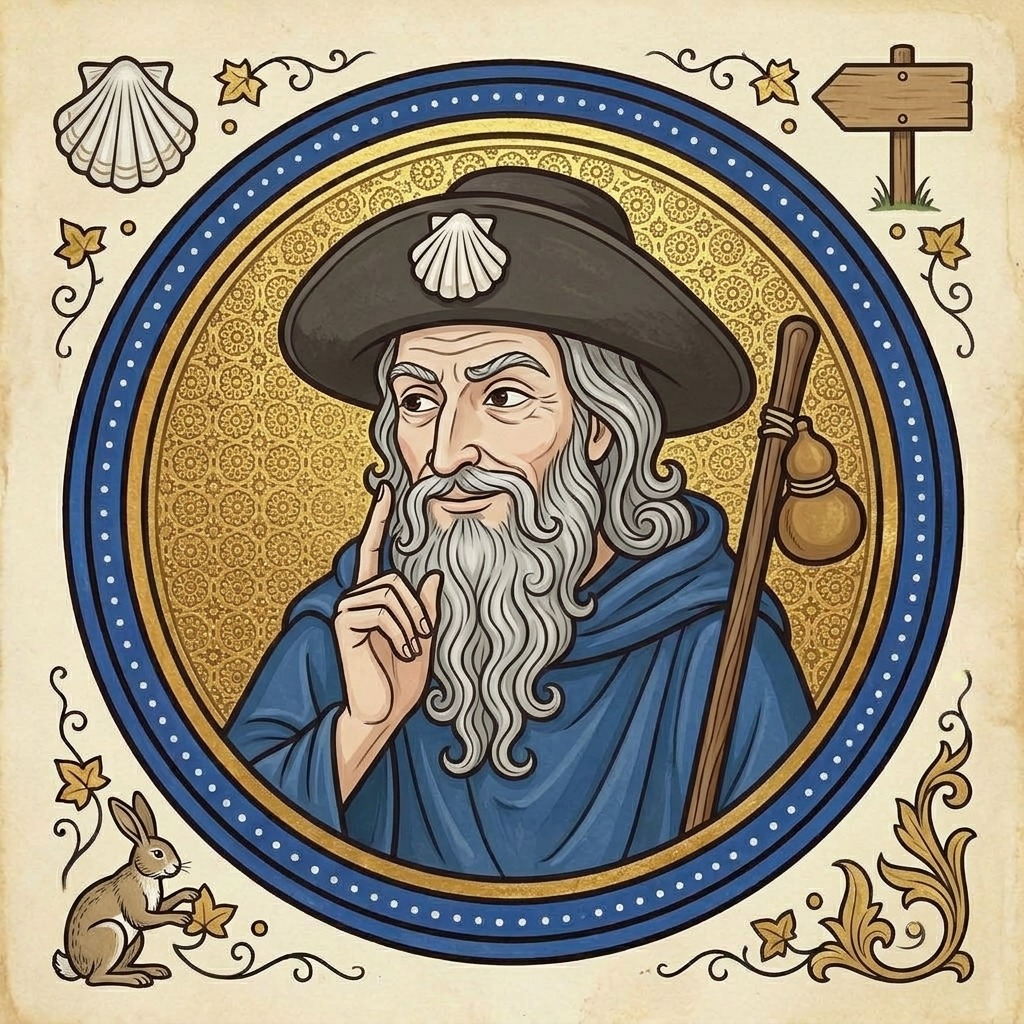
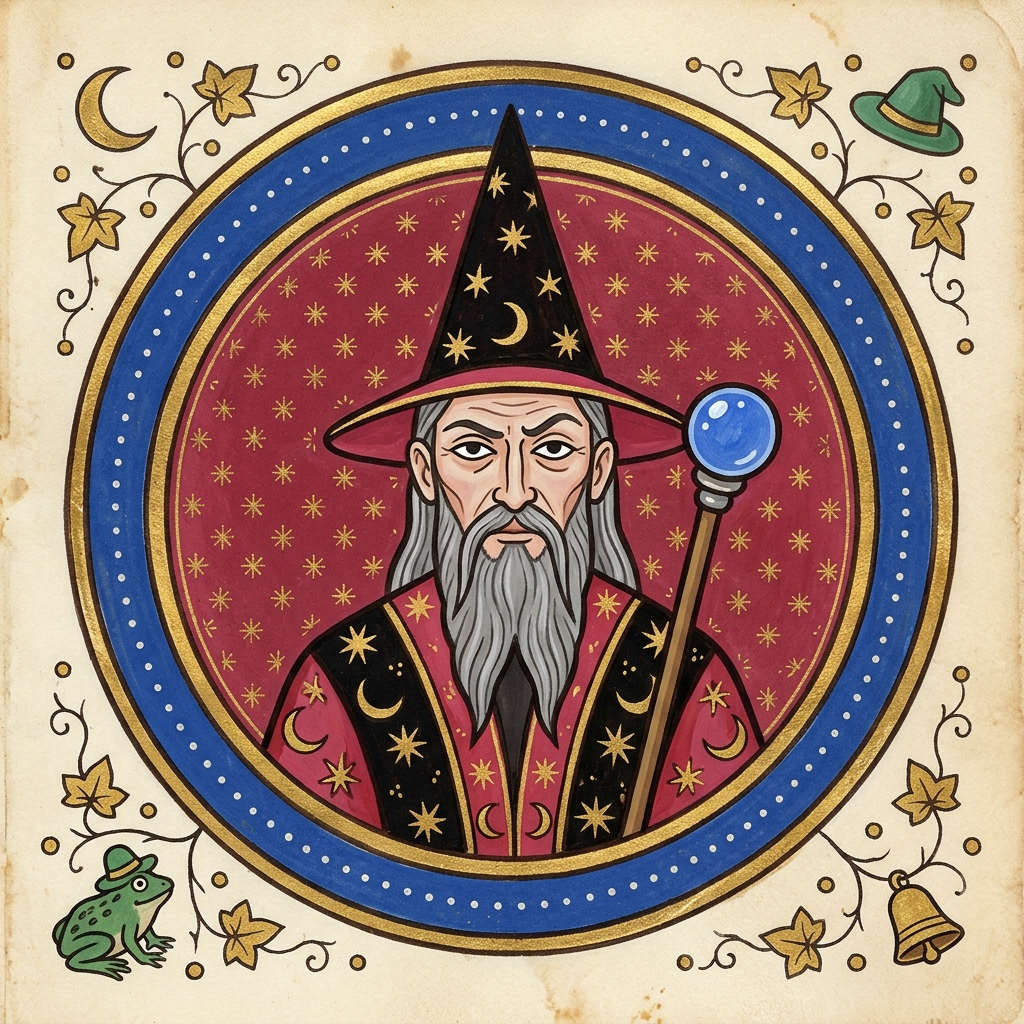
add more portrait

diff --git a/src/scenes/IntroScene.js b/src/scenes/IntroScene.js
@@ -15,21 +15,26 @@ class IntroScene extends Phaser.Scene {
         this.load.image('mercador_portrait', 'assets/mercador_portrait.jpeg');
         this.load.image('sabio_portrait', 'assets/sabio_portrait.jpeg');
         this.load.image('viajante_portrait', 'assets/viajante_portrait.jpeg');
-
-        this.load.image('narrador_portrait', 'assets/narrador_portrait.png');
-        this.load.image('aventureiro_portrait', 'assets/aventureiro_portrait.png');
+        this.load.image('aventureiro_portrait', 'assets/aventureiro_portrait.jpeg');
+        this.load.image('lorenzo_portrait', 'assets/lorenzo_portrait.jpeg');
+        this.load.image('donzela_portrait', 'assets/donzela_portrait.jpeg');
+        this.load.image('astronomo_portrait', 'assets/astronomo_portrait.jpeg');
+        this.load.image('cocheiro_portrait', 'assets/cocheiro_portrait.jpeg');
+        this.load.image('cacador_portrait', 'assets/cacador_portrait.jpeg');
+        this.load.image('lebre_portrait', 'assets/lebre_portrait.jpeg');
+        this.load.image('prisioneiros_portrait', 'assets/prisioneiros_portrait.jpeg');
 
         // Load background images
-        // this.load.image('level_1_bg', 'assets/level_1_bg.png');
-        // this.load.image('level_2_bg', 'assets/level_2_bg.png');
-        // this.load.image('level_3_bg', 'assets/level_3_bg.png');
-        // this.load.image('level_4_bg', 'assets/level_4_bg.png');
-        // this.load.image('level_5_bg', 'assets/level_5_bg.png');
-        // this.load.image('level_6_bg', 'assets/level_6_bg.png');
-        // this.load.image('level_7_bg', 'assets/level_7_bg.png');
-        // this.load.image('level_8_bg', 'assets/level_8_bg.png');
-        // this.load.image('level_9_bg', 'assets/level_9_bg.png');
-        // this.load.image('level_10_bg', 'assets/level_10_bg.png');
+        this.load.image('level_1_bg', 'assets/level_1_bg.jpeg');
+        this.load.image('level_2_bg', 'assets/level_2_bg.jpeg');
+        this.load.image('level_3_bg', 'assets/level_3_bg.jpeg');
+        this.load.image('level_4_bg', 'assets/level_4_bg.jpeg');
+        this.load.image('level_5_bg', 'assets/level_5_bg.jpeg');
+        this.load.image('level_6_bg', 'assets/level_6_bg.jpeg');
+        this.load.image('level_7_bg', 'assets/level_7_bg.jpeg');
+        this.load.image('level_8_bg', 'assets/level_8_bg.jpeg');
+        this.load.image('level_9_bg', 'assets/level_9_bg.jpeg');
+        this.load.image('level_10_bg', 'assets/level_10_bg.jpeg');
 
         // Load result background images
         // this.load.image('success', 'assets/success.png');
